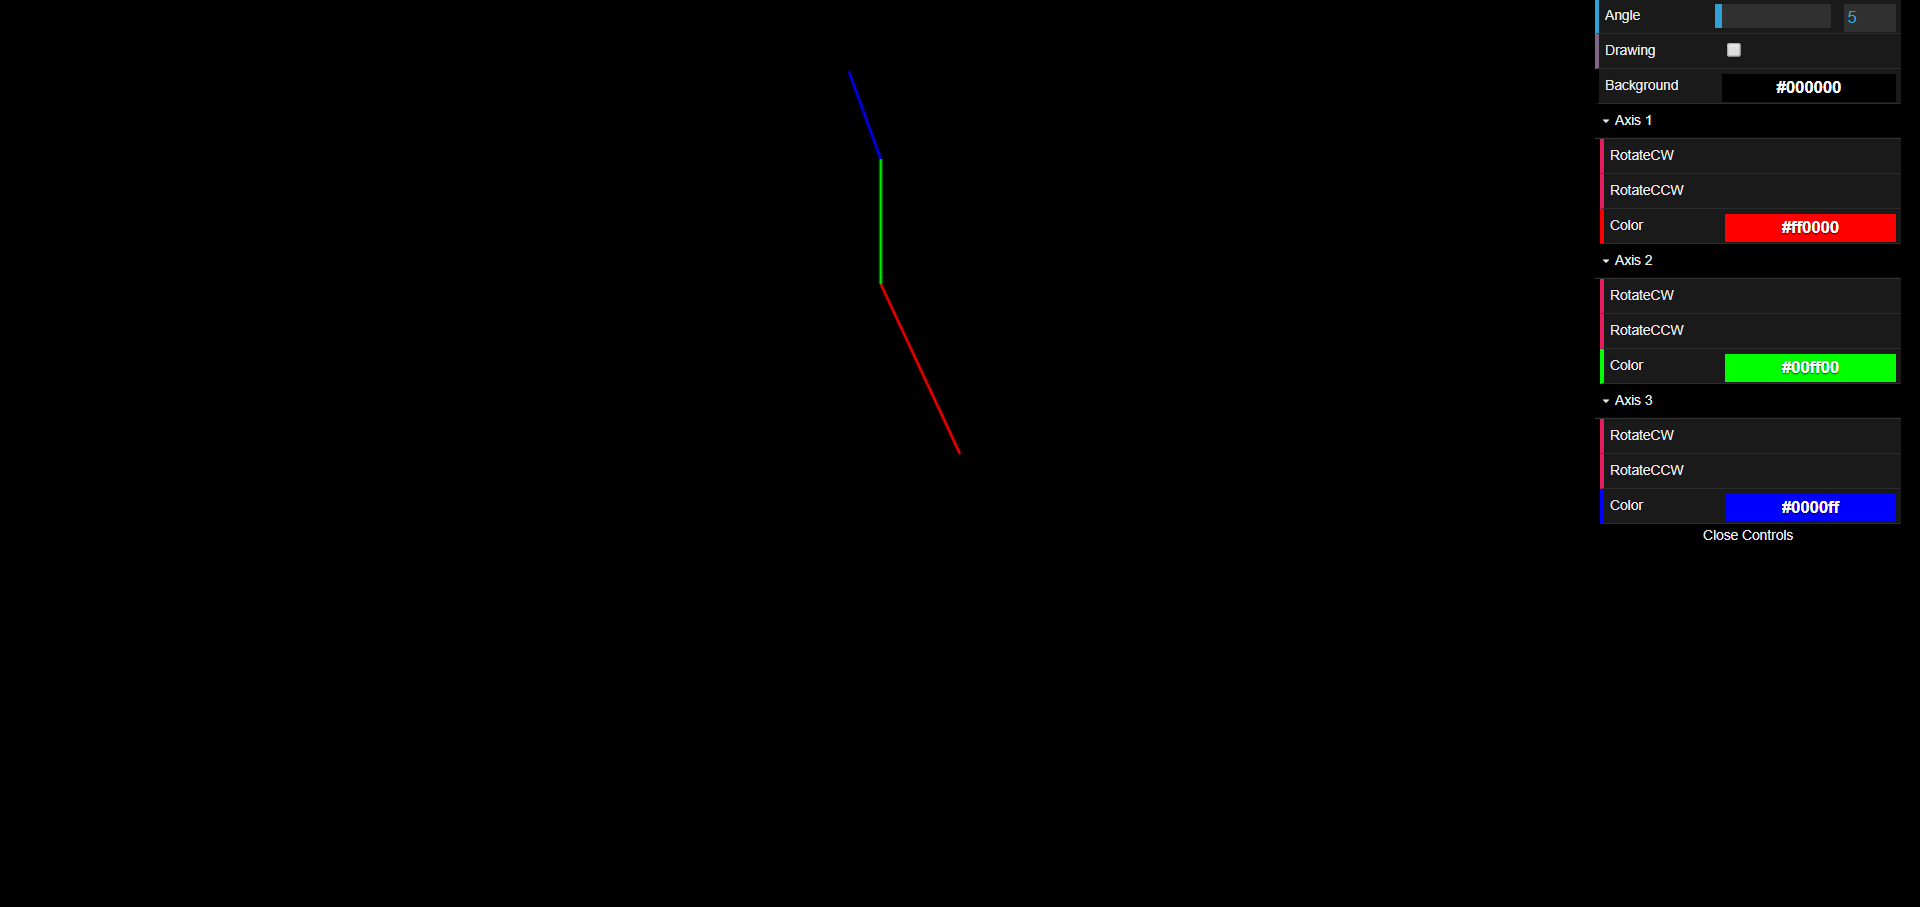
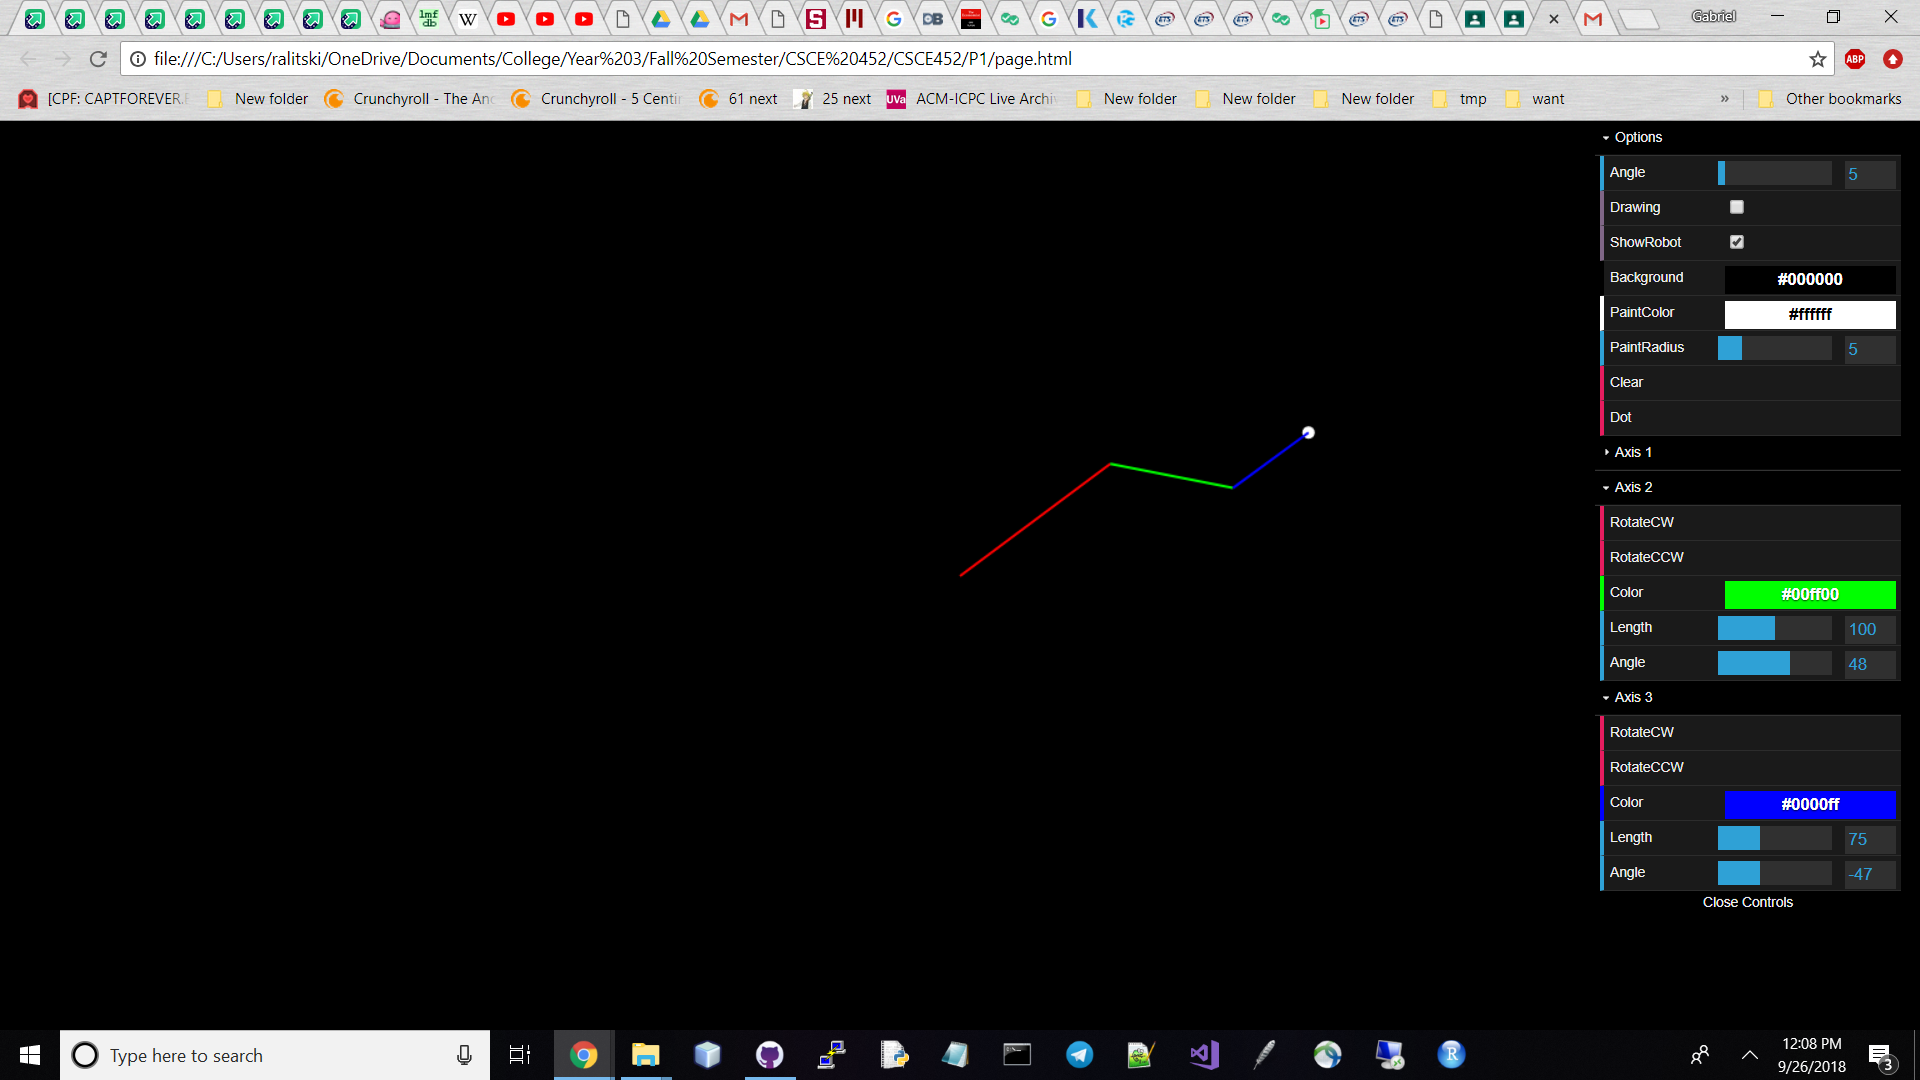
Finalizing project 1

diff --git a/projects.html b/projects.html
@@ -24,20 +24,22 @@
 
 
     <div class="content">
-        <h2><a href=https://githtub.tamu.edu/elliottdobbs/CSCE452.git style="color:#FF0">Project 1</a></h2>
+        <h2><a href="P1/P1.zip">Project 1</a></h2>
         <h4>we made this robot</h4>
         
-        <p>//project description goes here i guess? Lorem ipsum dolor sit amet, consectetur adipiscing elit, sed do eiusmod tempor incididunt ut labore et dolore magna aliqua. Ut enim ad minim veniam, quis nostrud exercitation ullamco laboris nisi ut aliquip ex ea commodo consequat. Duis aute irure dolor in reprehenderit in voluptate velit esse cillum dolore eu fugiat nulla pariatur. Excepteur sint occaecat cupidatat non proident, sunt in culpa qui officia deserunt mollit anim id est laborum.</p>
+        <p>This project, we created our website for keeping track of our projects.  We used html for creating the website.  We coded the robot in javascript.  We included options for coloring, angle increment value, and arm length along with others.</p>
 
         <img src="project1.png" style="width: 50%; height: 50%">
+        <br><br>
+        <img src="project2.png" style="width: 50%; height: 50%">
 
         <ul>
             <h4>Team Allocation</h4>
-            <li style="float: none">Kyle DeGonge - Website</li>
-            <li style="float: none">Elliott Dobbs - Website</li>
-            <li style="float: none">Noe Balli - Javascript</li>
-            <li style="float: none">Gabriel Stella - Javascript</li>
-            <li style="float: none">Johnson Beeches - documentation I guess?</li>
+            <li style="float: none">Kyle DeGonge - Website Sorcerer</li>
+            <li style="float: none">Elliott Dobbs - Website Master</li>
+            <li style="float: none">Noe Balli - Javascript Wizard</li>
+            <li style="float: none">Gabriel Stella - Javascript Archmage</li>
+            <li style="float: none">Johnson Beeches - Documentation Warlock</li>
         </ul>
         
         <table style="width:100%">

diff --git a/index.html b/index.html
@@ -22,8 +22,8 @@
     </div>   
     
     <div id="content">
-        <h3>body header</h3>
-        <p>content1</p>
+        <h3>Project 1</h3>
+        <img src="project2.png" style="width: 50%; height: 50%">
     </div>
 </body>
 
